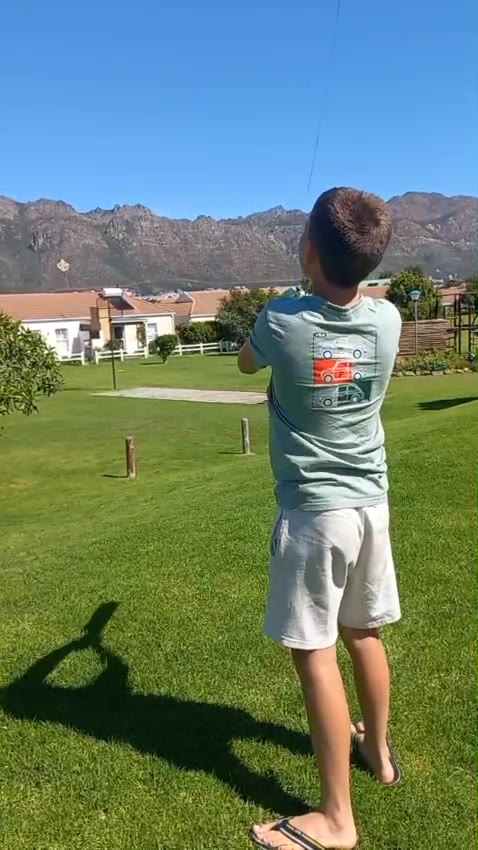
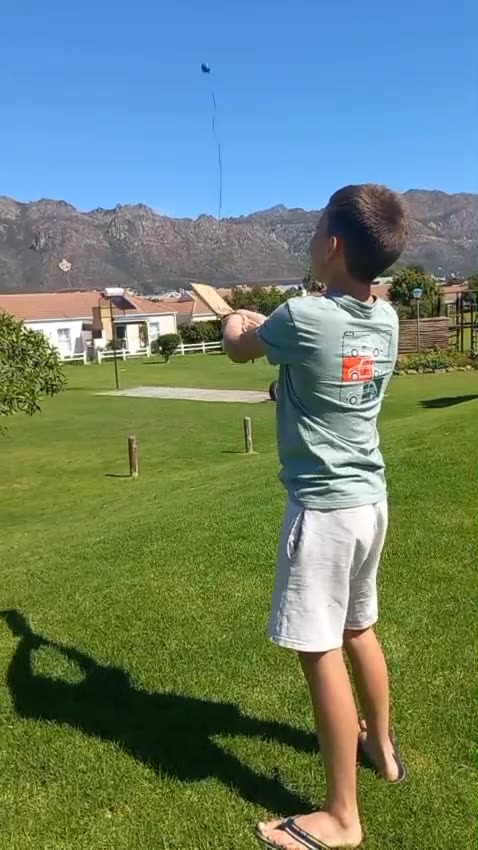
Replace the homepage "how it works" clip so no video runs twice
junior-demo-2.mp4 was playing in two places at once: the homepage
"Keep the ball on the bat" section and the KiTi Junior page hero.

Swap the homepage section to kitibat-lawn-2.mp4 (boy on the lawn with a
KiTi-Bat). The section's copy and buttons cover both products, so
KiTi-Bat footage suits it, and the KiTi Junior page keeps the driveway
clip as its own hero.

Also re-cut that clip's poster from t=1.5s instead of t=2.8s. The old
frame caught him between shots with the bat out of view; the new one has
the bat up, the cord running into the sky and the bat's shadow on the
grass, which is what the section is about. The clip is 9:16 like the one
it replaces, so the 4:5 frame crop is unchanged.

Structured data updated to match.

Claude-Session: https://claude.ai/code/session_01KUthgivvRNbeRdLiC1nfwV

diff --git a/site/index.html b/site/index.html
@@ -160,15 +160,15 @@
   },
   {
    "@type": "VideoObject",
-   "@id": "https://www.kiti-bats.co.za/#video-junior-demo-2",
-   "name": "A young player training with a KiTi Junior",
-   "description": "A young player hitting the ball on a KiTi Junior, again and again, without it leaving the face of the bat.",
+   "@id": "https://www.kiti-bats.co.za/#video-kitibat-lawn-2",
+   "name": "Keeping the ball going on a KiTi-Bat",
+   "description": "A young player on a sunlit lawn hitting the ball on a KiTi-Bat, again and again, without it leaving the face of the bat.",
    "thumbnailUrl": [
-    "https://www.kiti-bats.co.za/assets/img/junior-demo-2-poster.jpg"
+    "https://www.kiti-bats.co.za/assets/img/kitibat-lawn-2-poster.jpg"
    ],
-   "uploadDate": "2026-09-07T12:52:15+00:00",
-   "duration": "PT19S",
-   "contentUrl": "https://www.kiti-bats.co.za/assets/video/junior-demo-2.mp4",
+   "uploadDate": "2026-10-08T15:09:49+02:00",
+   "duration": "PT6S",
+   "contentUrl": "https://www.kiti-bats.co.za/assets/video/kitibat-lawn-2.mp4",
    "isFamilyFriendly": true,
    "inLanguage": "en-ZA",
    "publisher": {
@@ -359,9 +359,9 @@
   <section class="section section--white">
     <div class="wrap split split--wide-right">
       <div class="frame frame--tall reveal">
-        <video class="pano-video" autoplay muted loop playsinline preload="none" poster="/assets/img/junior-demo-2-poster.jpg"
-               aria-label="A young player hitting the ball on a KiTi Junior, again and again, without it leaving the face of the bat">
-          <source src="/assets/video/junior-demo-2.mp4" type="video/mp4">
+        <video class="pano-video" autoplay muted loop playsinline preload="none" poster="/assets/img/kitibat-lawn-2-poster.jpg"
+               aria-label="A young player on a sunlit lawn hitting the ball on a KiTi-Bat, again and again, without it leaving the face of the bat">
+          <source src="/assets/video/kitibat-lawn-2.mp4" type="video/mp4">
           <img src="/assets/img/bats-packed.jpg?v=d7138bb8" alt="KiTi-Bats packed in a box, each with its rubber ball and elastic cord attached" width="610" height="1045">
         </video>
       </div>
